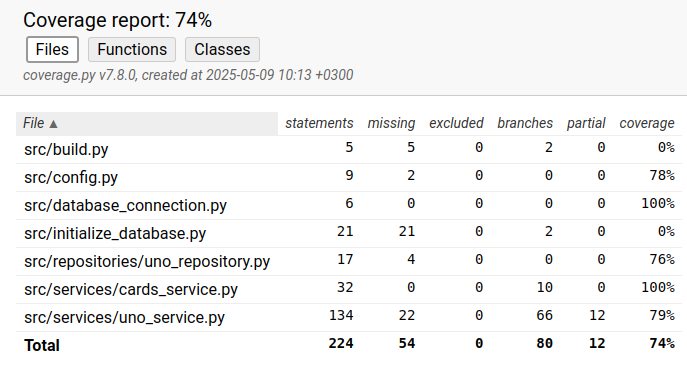
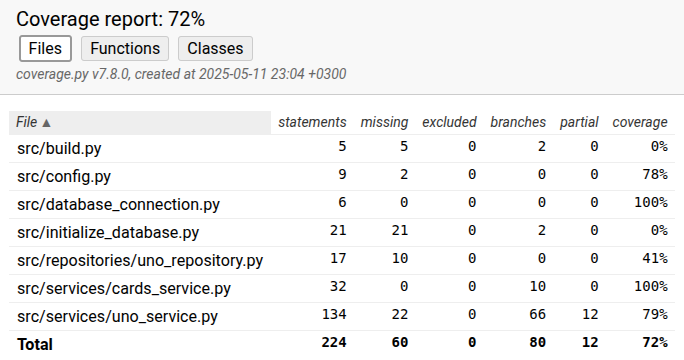
final changes

diff --git a/src/services/uno_service.py b/src/services/uno_service.py
@@ -1,5 +1,5 @@
 import random
-from repositories.uno_repository import uno_repository
+from repositories.uno_repository import uno_repository as default_uno_repository
 from .cards_service import CardsService
 
 
@@ -16,9 +16,11 @@ class UnoService:
         stack: Korttipinon päällimmäinen kortti
         turn: Kertoo kenen vuoro on
         actions: Erikoiskorttien toiminnot
+        win: Onko peli voitettu
+        discard_pile: Pelatut kortit
     """
 
-    def __init__(self):
+    def __init__(self, uno_repository=default_uno_repository):
         """Pohjustaa sovelluslogiikasta vastaavan luokan."""
         self.repository = uno_repository
         self.deck = []
@@ -58,19 +60,19 @@ class UnoService:
         if self.turn == "player1":
             for i in self.player1:
                 if i == card:
-                    self.continue_to_play(action_card, i)
+                    self._continue_to_play(action_card, i)
                     return
         else:
             for i in self.player2:
                 if i == card:
-                    self.continue_to_play(action_card, i)
+                    self._continue_to_play(action_card, i)
                     return
         raise InvalidCardError("Invalid card, try again")
 
     def draw_a_card(self):
         """Kortin nostaminen pakasta."""
         if len(self.deck)<=0:
-            if self.shuffle_cards():
+            if self._shuffle_cards():
                 return
         card = self.deck.pop()
         if self.turn == "player1":
@@ -80,7 +82,7 @@ class UnoService:
             self.player2.append(card)
             self.turn = "player1"
 
-    def check_action_card(self, action_card, card):
+    def _check_action_card(self, action_card, card):
         """Tarkastaa onko kortti erikoiskortti.
         
         Args:
@@ -88,16 +90,16 @@ class UnoService:
             card: Kyseessä oleva kortti
         """
         if action_card:
-            self.play_action_card(card)
+            self._play_action_card(card)
 
-    def play_action_card(self, card):
+    def _play_action_card(self, card):
         """Erikoiskorttien toimintojen toteutus.
         
         Args:
             card: Pelattava kortti
         """
         if card[0] in ["r", "s"] or card == "wild":
-            self.skip_turn()
+            self._skip_turn()
         elif card[0] == "d":
             if self.turn == "player1":
                 for _ in range(2):
@@ -116,16 +118,16 @@ class UnoService:
                 for _ in range(4):
                     draw = self.deck.pop()
                     self.player2.append(draw)
-            self.skip_turn()
+            self._skip_turn()
 
-    def skip_turn(self):
+    def _skip_turn(self):
         """Vuoro ei vaihdu seuraavalle pelaajalle."""
         if self.turn == "player1":
             self.turn = "player2"
         else:
             self.turn = "player1"
 
-    def check_colors(self, color):
+    def _check_colors(self, color):
         """Tarkastus onko pelattavan kortin väri sama kuin pinossa olevan.
         
         Args:
@@ -138,7 +140,7 @@ class UnoService:
             return True
         return False
 
-    def check_number(self, number):
+    def _check_number(self, number):
         """Tarkastus onko pelattavan kortin numero sama kuin pinossa olevan.
         
         Args:
@@ -151,7 +153,7 @@ class UnoService:
             return True
         return False
 
-    def continue_to_play(self, action_card, i):
+    def _continue_to_play(self, action_card, i):
         """Kortin pelaaminen.
         
         Args:
@@ -159,28 +161,28 @@ class UnoService:
             i: Pelattava kortti
         """
         if self.turn == "player1":
-            if self.check_colors(i[1]) or self.check_number(i[0]) or i in self.actions[3:]:
+            if self._check_colors(i[1]) or self._check_number(i[0]) or i in self.actions[3:]:
                 if self.stack[0]!="-":
                     self.discard_pile.append(self.stack)
                 self.stack = i
                 self.player1.remove(i)
-                if self.check_winning(self.player1):
+                if self._check_winning(self.player1):
                     self.win = True
                     return
                 self.turn = "player2"
-                self.check_action_card(action_card, i)
+                self._check_action_card(action_card, i)
                 return
         else:
-            if self.check_colors(i[1]) or self.check_number(i[0]) or i in self.actions[3:]:
+            if self._check_colors(i[1]) or self._check_number(i[0]) or i in self.actions[3:]:
                 if self.stack[0]!="-":
                     self.discard_pile.append(self.stack)
                 self.stack = i
                 self.player2.remove(i)
-                if self.check_winning(self.player2):
+                if self._check_winning(self.player2):
                     self.win = True
                     return
                 self.turn = "player1"
-                self.check_action_card(action_card, i)
+                self._check_action_card(action_card, i)
                 return
         raise InvalidCardError("Invalid card, try again")
 
@@ -192,9 +194,9 @@ class UnoService:
         """
         self.discard_pile.append(self.stack)
         self.stack = ("-", color)
-        self.skip_turn()
+        self._skip_turn()
 
-    def check_winning(self, player):
+    def _check_winning(self, player):
         """Tarkastaa onko peli päättynyt.
         
         Args:
@@ -204,11 +206,11 @@ class UnoService:
             Palauttaa onko voittaja selvinnyt.
         """
         if len(player)==0:
-            self.winner()
+            self._winner()
             return True
         return False
 
-    def winner(self):
+    def _winner(self):
         """Lisää voiton."""
         self.repository.add_win(self.turn)
 
@@ -220,7 +222,7 @@ class UnoService:
         """
         return self.repository.find_wins()
 
-    def shuffle_cards(self):
+    def _shuffle_cards(self):
         """Sekoittaa pois pelatut kortit.
         
         Returns:

diff --git a/src/tests/uno_service_test.py b/src/tests/uno_service_test.py
@@ -1,9 +1,20 @@
 import unittest
 from services.uno_service import UnoService, InvalidCardError
 
+class FakeUnoRepository:
+    def __init__(self):
+        self.users = {"player1": 0, "player2": 0}
+
+    def find_wins(self):
+        return self.users
+
+    def add_win(self, user):
+        wins = self.users[user]
+        self.users[user]=wins+1
+
 class TestUnoService(unittest.TestCase):
     def setUp(self):
-        self.uno_service = UnoService()
+        self.uno_service = UnoService(FakeUnoRepository())
         self.error = InvalidCardError()
 
     def test_start_game(self):
@@ -49,9 +60,9 @@ class TestUnoService(unittest.TestCase):
         self.assertEqual(len(self.uno_service.player2), 5)
 
     def test_skip_turn(self):
-        self.uno_service.skip_turn()
+        self.uno_service._skip_turn()
         self.assertEqual(self.uno_service.turn, "player2")
-        self.uno_service.skip_turn()
+        self.uno_service._skip_turn()
         self.assertEqual(self.uno_service.turn, "player1")
 
     def test_choose_color(self):

diff --git a/dokumentaatio/arkkitehtuuri.md b/dokumentaatio/arkkitehtuuri.md
@@ -143,3 +143,10 @@ Tapahtumankäsittelijä kutsuu sovelluslogiikan metodia choose_color antaen para
 ### Muut toiminnallisuudet
 
 Sama periaate toistuu muissakin toiminnallisuuksissa. Käyttöliittymä kutsuu tapahtumakäsittelijän kautta sovelluslogiikkaa, joka vastaa tarvittavan toiminnallisuuden toteuttamisesta. Tämän jälkeen käyttöliittymä tarvittaessa päivittyy.
+
+
+## Ohjelman rakenteeseen jääneet heikkoudet
+
+### Sovelluslogiikka
+
+UnoService-luokkaan on jäänyt muutama heikkous liittyen attribuuttien liialliseen määrään ja liian moneen lausekkeeseen, joista pylint huomauttaa.

diff --git a/dokumentaatio/testaus.md b/dokumentaatio/testaus.md
@@ -10,7 +10,7 @@ Sovelluslogiikkaa testaavat luokat TestUnoService ja TestCardsService.
 
 ### Testauskattavuus
 
-Käyttöliittymää huomioimatta sovelluksen haarautumakattavuus on 74%
+Käyttöliittymää huomioimatta sovelluksen haarautumakattavuus on 72%
 
 ![Testikattavuus](./kuvat/testauskattavuus.png)
 

diff --git a/dokumentaatio/tuntikirjanpito.md b/dokumentaatio/tuntikirjanpito.md
@@ -24,4 +24,5 @@
 |7.5.   | 4 | arkkitehtuurikuvaus, testaus |
 |8.5.   | 3 | virheiden käsittely, testaus |
 |9.5.   | 2 | testausdokumentti, docstring dokumentointi, viimeistely |
-| yht   | 52| |
+|11.5.  | 1 | viimeistely |
+| yht   | 55| |
